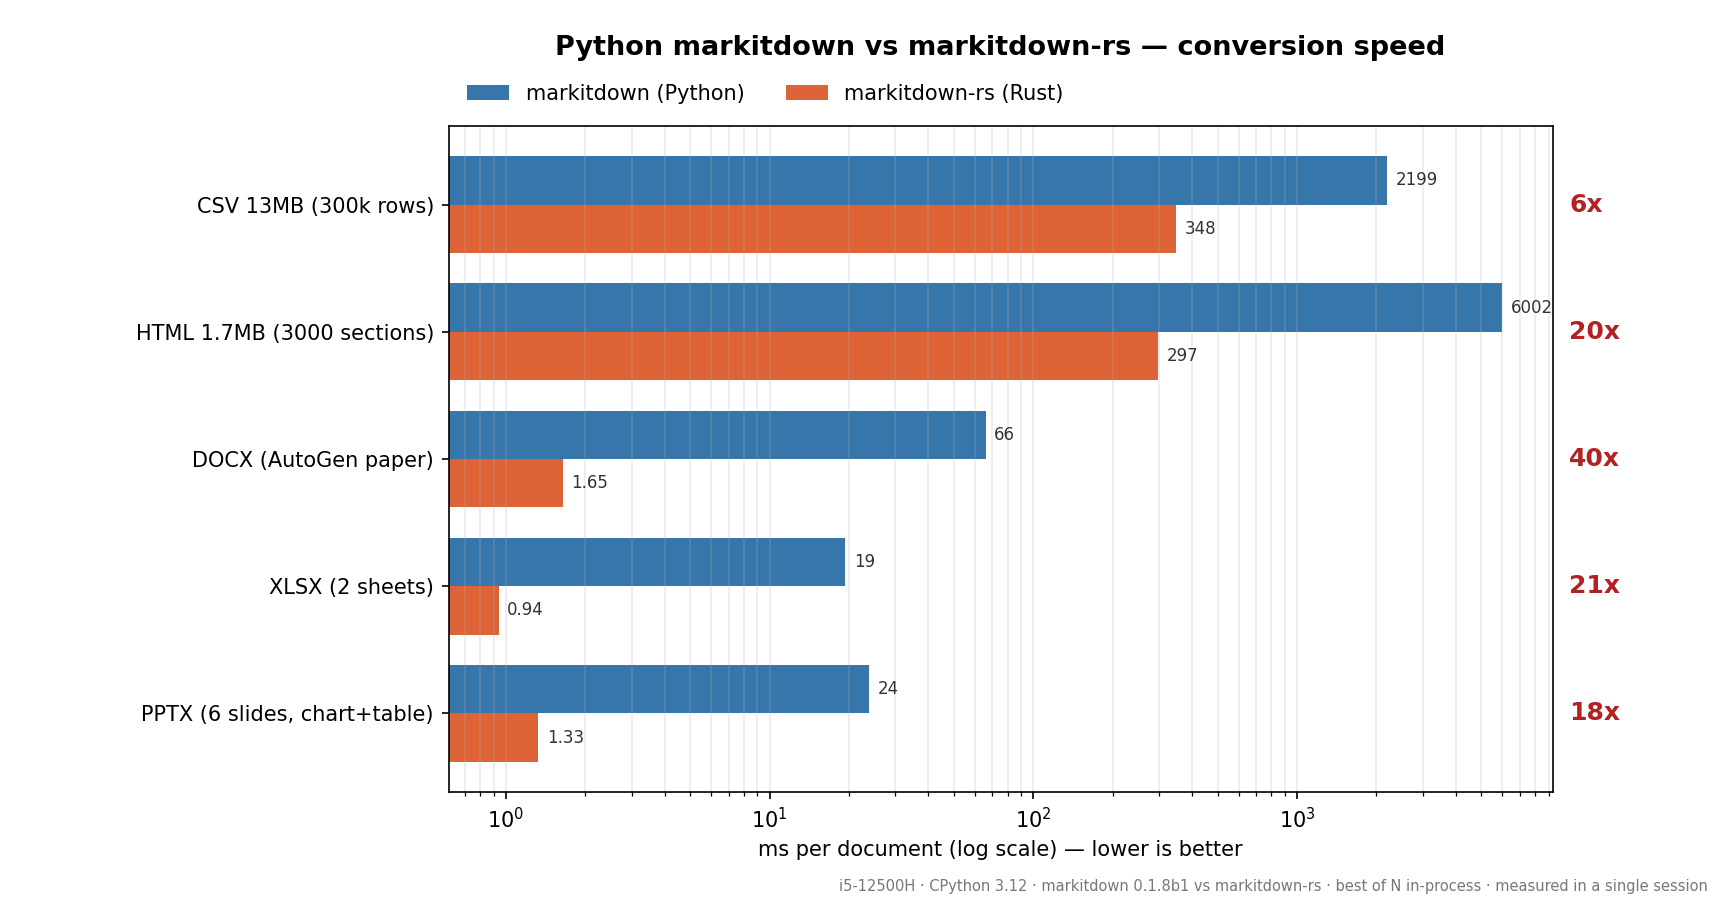
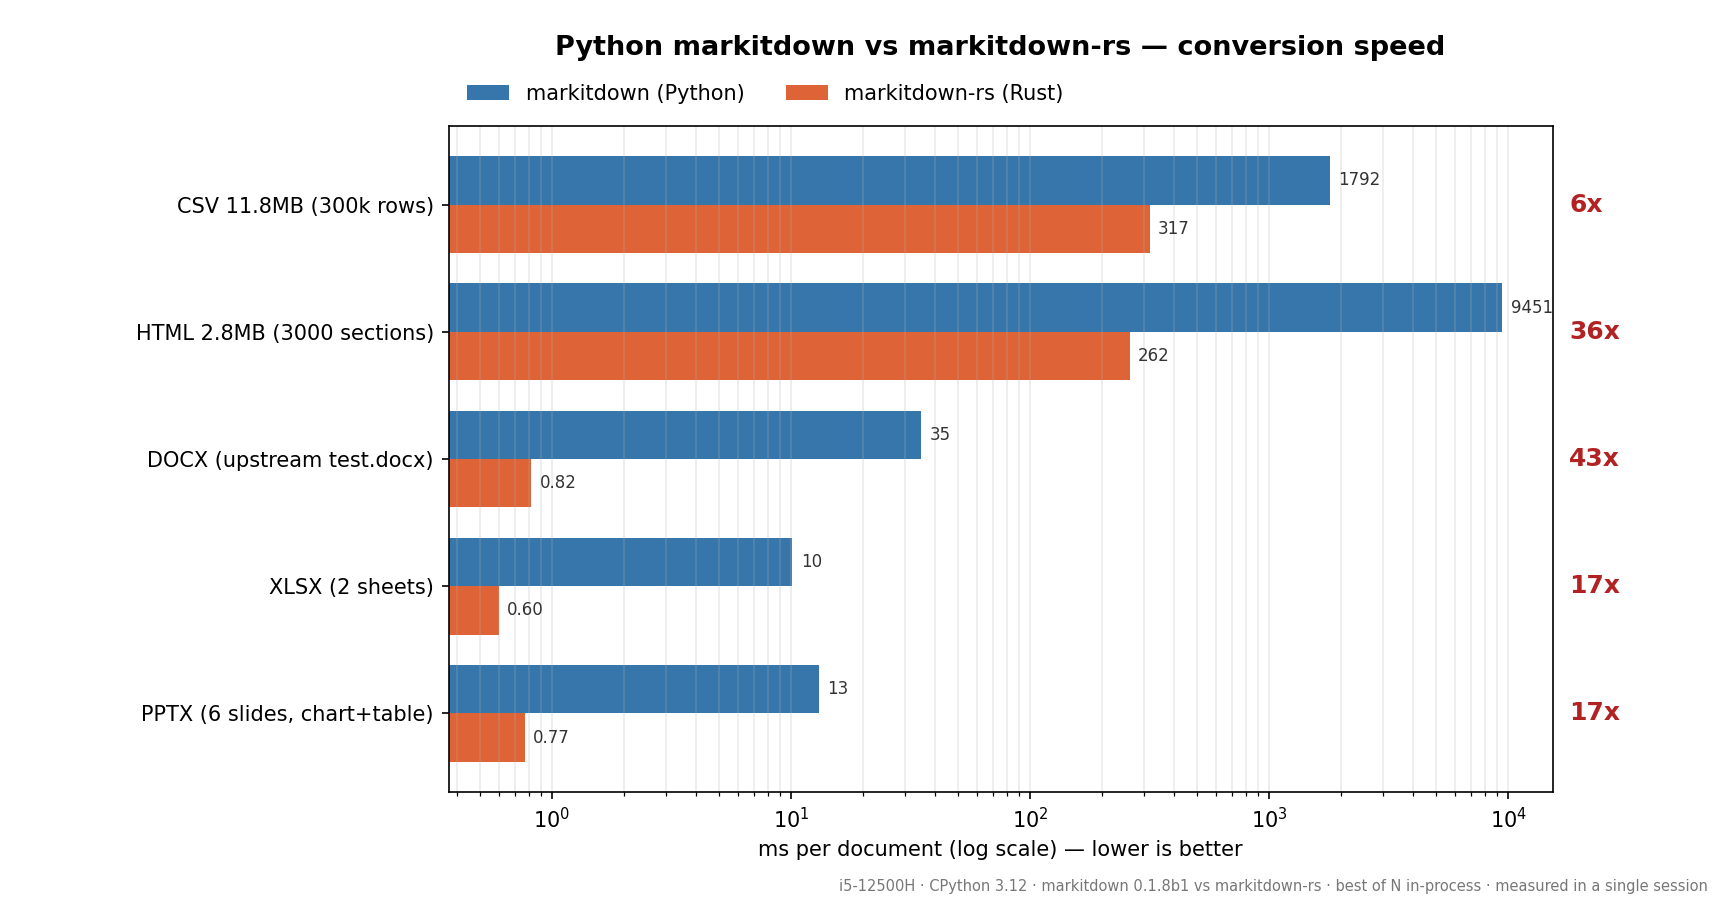
bench: deterministic inputs + fresh measured benchmark
- Add gen_bench_inputs.py: fixed-seed generator for the 300k-row CSV
  (11.8MB) and 3000-section HTML (2.8MB) inputs, so plot_bench.py no
  longer depends on pre-existing untracked files.
- plot_bench.py: drop the broken target/parity/ write path (that
  directory is never created), stage bench inputs in the temp dir,
  fail loudly when bench.exe errors, and drop the dead best_us_py
  helper. Relabel cases to the real fixture names and sizes.
- benchmark.png: redrawn from a real run on 2026-10-07 against
  markitdown 0.1.8b1 — CSV 5.7x, HTML 36.1x, DOCX 42.7x, XLSX 16.9x,
  PPTX 17.0x.

diff --git a/gen_bench_inputs.py b/gen_bench_inputs.py
@@ -1,0 +1,76 @@
+"""Generate deterministic benchmark inputs matching the documented scale.
+
+Creates (repo root):
+  big.csv  - 300,000 data rows (~11.8MB), prose-like cells with unicode,
+             quoting, pipes and embedded newlines to exercise the escaper.
+  big.html - 3,000 sections (~2.8MB) mixing headings, tables, lists, links,
+             code and entities to exercise the markdownify pipeline.
+
+Both files are gitignored (see .gitignore). Fixed seed -> byte-identical
+inputs on every run, so the benchmark is reproducible:
+
+    python gen_bench_inputs.py
+    python plot_bench.py
+"""
+
+import os
+import random
+
+HERE = os.path.dirname(os.path.abspath(__file__))
+rng = random.Random(20260907)
+
+FIRST = ["alice", "bob", "carol", "dave", "eve", "frank", "grace", "heidi",
+         "ivan", "judy", "mallory", "niaj", "olivia", "peggy", "quinn",
+         "rupert", "sybil", "trent", "ursula", "victor", "wendy", "xavier",
+         "yvonne", "zach", "ālice", "李雷", "café-owner", "o'brien"]
+CITY = ["Hyderabad", "Beijing", "Berlin", "Cairo", "Denver", "Oslo",
+        "Paris", "Quito", "Rome", "Seoul", "Tokyo", "Lima", "Nairobi"]
+NOTE = ["paid in full", "a|b pipe", 'say "hi", twice', "line1\nline2",
+        "back\\slash", "50% off, today", "naïve café — 北京", "ok"]
+
+
+def gen_csv(path, rows=300_000):
+    with open(path, "w", encoding="utf-8", newline="") as f:
+        f.write("id,name,city,amount,note\n")
+        for i in range(rows):
+            name = rng.choice(FIRST)
+            city = rng.choice(CITY)
+            amount = rng.randint(1, 99999)
+            note = rng.choice(NOTE)
+            # quote fields that need it, like a real exporter would
+            cells = [str(i), name, city, str(amount), note]
+            out = []
+            for c in cells:
+                if any(ch in c for ch in ',"\n'):
+                    c = '"' + c.replace('"', '""') + '"'
+                out.append(c)
+            f.write(",".join(out) + "\n")
+    print(f"wrote {path} ({os.path.getsize(path) / 1e6:.1f}MB, {rows} rows)")
+
+
+def gen_html(path, sections=3_000):
+    with open(path, "w", encoding="utf-8") as f:
+        f.write("<html><head><title>Bench</title></head><body>\n")
+        for s in range(sections):
+            name = rng.choice(FIRST)
+            city = rng.choice(CITY)
+            f.write(f"<section><h2>Section {s}: {name} in {city}</h2>\n")
+            f.write(f"<p>Prose with <b>bold</b>, <em>em</em>, <code>code|pipe</code>, "
+                    f"a <a href=\"page {s}.html\">relative link</a>, an autolink "
+                    f"<a href=\"https://example.com/{s}\">https://example.com/{s}</a>, "
+                    f"entities &amp; &lt;tag&gt; &copy;, and unicode Hyderābād — 北京 — café.</p>\n")
+            f.write("<table><thead><tr><th>Item</th><th>Qty</th><th>Price</th></tr></thead><tbody>")
+            for r in range(5):
+                f.write(f"<tr><td>widget-{s}-{r}</td><td>{r + 1}</td><td>{(s * r) % 997}.00</td></tr>")
+            f.write("</tbody></table>\n")
+            f.write(f"<ul><li>point one<ul><li>nested {s}</li></ul></li><li>point two</li></ul>\n")
+            f.write(f"<blockquote>quoted <b>bold {s}</b></blockquote>\n")
+            f.write(f"<p>see <a href=\"javascript:void(0)\">bad</a> vs <img src=\"img{s}.png\" alt=\"PIC{s}\"></p>\n")
+            f.write("</section>\n")
+        f.write("</body></html>\n")
+    print(f"wrote {path} ({os.path.getsize(path) / 1e6:.1f}MB, {sections} sections)")
+
+
+if __name__ == "__main__":
+    gen_csv(os.path.join(HERE, "big.csv"))
+    gen_html(os.path.join(HERE, "big.html"))

diff --git a/plot_bench.py b/plot_bench.py
@@ -1,15 +1,17 @@
 """Generate benchmark.png — Python markitdown vs markitdown-rs across all
 converted formats, measured fresh in one session for consistency.
 
-Run from the repo root:  python plot_bench.py
+Run from the repo root:
+    python gen_bench_inputs.py   # deterministic inputs (fixed seed)
+    python plot_bench.py
 Requires: the upstream markitdown clone at ../markitdown (for the Python
 converters) and cargo-built examples (bench.exe).
 """
 import io
-import json
 import os
 import subprocess
 import sys
+import tempfile
 import time
 import warnings
 
@@ -34,26 +36,13 @@ def make_cases():
     big_html = open(os.path.join(HERE, "big.html"), encoding="utf-8").read()
 
     return [
-        ("CSV 13MB (300k rows)", big_csv, ".csv", CsvConverter()),
-        ("HTML 1.7MB (3000 sections)", big_html.encode("utf-8"), ".html", HtmlConverter()),
-        ("DOCX (AutoGen paper)", open(os.path.join(HERE, "tests/fixtures/test.docx"), "rb").read(), ".docx", DocxConverter()),
+        ("CSV 11.8MB (300k rows)", big_csv, ".csv", CsvConverter()),
+        ("HTML 2.8MB (3000 sections)", big_html.encode("utf-8"), ".html", HtmlConverter()),
+        ("DOCX (upstream test.docx)", open(os.path.join(HERE, "tests/fixtures/test.docx"), "rb").read(), ".docx", DocxConverter()),
         ("XLSX (2 sheets)", open(os.path.join(HERE, "tests/fixtures/test.xlsx"), "rb").read(), ".xlsx", XlsxConverter()),
         ("PPTX (6 slides, chart+table)", open(os.path.join(HERE, "tests/fixtures/test.pptx"), "rb").read(), ".pptx", PptxConverter()),
     ]
 
-
-def best_us_py(data, conv, runs):
-    best = float("inf")
-    for _ in range(runs):
-        t0 = time.perf_counter()
-        conv.convert(io.BytesIO(data), StreamInfo(extension=EXT, charset="utf-8"))
-        best = min(best, time.perf_counter() - t0)
-    return best / 1e-3  # ms
-
-
-import io
-import time
-from markitdown._stream_info import StreamInfo
 
 def measure():
     rows = []
@@ -68,10 +57,12 @@ def measure():
         py_ms = best_py * 1000
 
         # rust: bench.exe loops 10x in-process, prints best ms
-        path = os.path.join(HERE, "target", "parity", "bench_input" + ext)
+        path = os.path.join(tempfile.gettempdir(), "mdrs-bench-input" + ext)
         with open(path, "wb") as f:
             f.write(data)
         out = subprocess.run([BENCH_EXE, path, ext], capture_output=True, text=True)
+        if out.returncode != 0:
+            raise RuntimeError(f"bench.exe failed for {label}: {out.stderr.strip()}")
         rs_ms = float(out.stdout.strip().splitlines()[-1])
         rows.append((label, py_ms, rs_ms))
         print(f"  {label:32s} python={py_ms:8.1f} ms  rust={rs_ms:8.2f} ms  {py_ms/rs_ms:6.1f}x")
